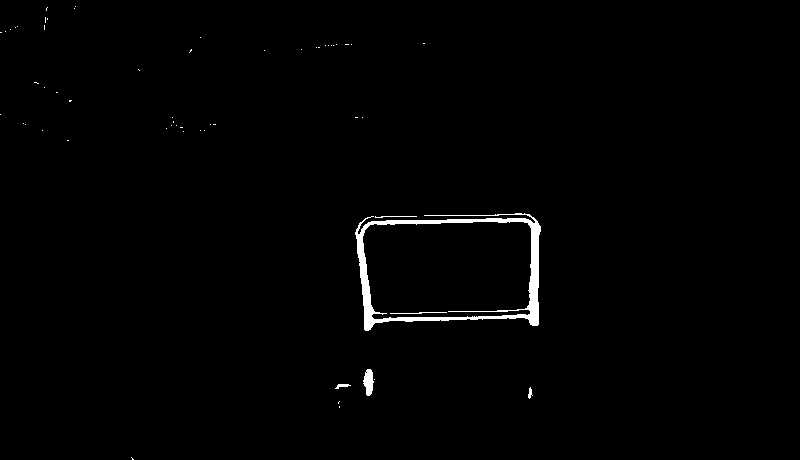
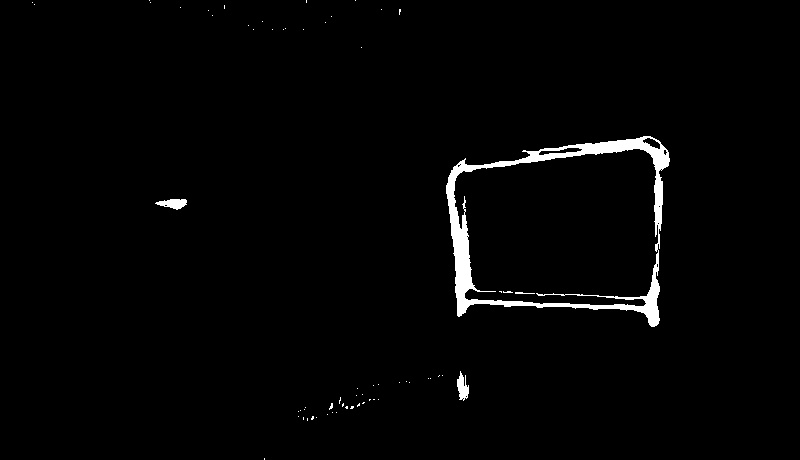
Ros node for image subscribing and initial pipeline

diff --git a/Window_detection/window_detection.py b/Window_detection/window_detection.py
@@ -1,4 +1,7 @@
 #!/usr/bin/env python
+import rospy
+from sensor_msgs.msg import Image
+from cv_bridge import CvBridge, CvBridgeError
 try:
 	sys.path.remove('/opt/ros/kinetic/lib/python2.7/dist-packages/')
 	sys.path.remove('/opt/ros/kinetic/share/opencv3/')
@@ -9,15 +12,36 @@ import cv2
 import numpy as np
 import math
 import copy
+import GMM.test_data
 
+class video_stream:
+	def __init__(self):
+		self.bridge = CvBridge()
+		self.image_sub = rospy.Subscriber("/image_raw", Image, self.img_callback)
+		self.window_detection = Window_detection()
+		weights_path = './training_params/window_weights.npy'
+		params_path = './training_params/gaussian_params.npy'
+		self.n, self.K, self.weights, self.params = loadparamsGMM(weights_path, params_path)
 
+	def img_callback(self, data):
+		try:
+			cv_image = self.bridge.imgmsg_to_cv2(data, "bgr8")
+		except CvBridgeError as e:
+			print(e)
+		
+		if cv_image is not None:
+			processed_img = preprocess_img(cv_image)
 
+			#run GMM inference to generate mask
+			mask = test_combined(processed_img,self.K,self.n,self.weights, self.params,(0,255,0))
+			self.window_detection.detection_hough_lines(mask)
+	
 class Window_detection:
 	def __init__(self):
 		# self.data_path = '/home/prgumd/Desktop/pink_window.mp4'
 		self.data_path = '../../drone_course_data/window_detection/pink_window.mp4'
 		self.image_path = './GMM/test_image.jpg'
-		self.original_image = '../drone_course_data/Window_detection/GMM/data/GMM_1/frame0010.jpg'
+		self.original_image = '../drone_course_data/Window_detection/GMM/data/GMM_1/frame0200.jpg'
 
 	def rotate_img_90_deg(self,img):
 		h,w = img.shape[:2]
@@ -144,12 +168,38 @@ class Window_detection:
 				cv2.destroyAllWindows()
 			count += 1
 
-	def Detection_using_threshold_image(self):
-		img = cv2.imread(self.original_image)
-		mask = cv2.imread(self.image_path,0)
+	def detection_hough_lines(self, mask):
+		# img = cv2.imread(self.original_image)
+		# mask = cv2.imread(self.image_path,0)
 		mask = cv2.inRange(mask, 200, 255)
 		masked_img = cv2.bitwise_and(img, img, mask = mask)
-		# cv2.imshow("test",masked_img)
+
+		gray = cv2.cvtColor(masked_img,cv2.COLOR_BGR2GRAY)
+		gray = cv2.medianBlur(gray,5)
+		edges = gray
+		kernel = cv2.getStructuringElement(cv2.MORPH_RECT,(31,31))
+		# closing to fill unwanted small gaps
+		closing = cv2.morphologyEx(edges, cv2.MORPH_CLOSE, kernel)
+		
+		closing = cv2.GaussianBlur(closing, (7,7), cv2.BORDER_DEFAULT)
+		edges = cv2.Canny(closing, 50, 150, apertureSize = 3)
+		minLength = 100
+		maxLineGap = 40
+		lines = cv2.HoughLinesP(closing, 1, np.pi/180, 100, minLength, maxLineGap)
+		# print lines.shape
+		# input('as')
+		for x1, y1, x2, y2 in lines[:,0,:]:
+			cv2.line(img, (x1, y1),(x2,y2), (0,255,0), 2)
+		# print ("imgPoints = ",imgPoints)
+		cv2.imshow("image", img)				
+		cv2.waitKey(0)
+
+	def Detection_using_threshold_image(self, mask):
+		# img = cv2.imread(self.original_image)
+		# mask = cv2.imread(self.image_path,0)
+		mask = cv2.inRange(mask, 200, 255)
+		masked_img = cv2.bitwise_and(img, img, mask = mask)
+		print(masked_img.shape)
 		corner_pts = self.get_all_corners(masked_img, img)
 		imgPoints = self.get_outer_window_corner_points(corner_pts, img)
 		print ("imgPoints = ",imgPoints)
@@ -161,8 +211,13 @@ class Window_detection:
 
 
 def main():
-	ob = Window_detection()
-	ob.Detection_using_threshold_image()
+	count = 0
+	ob = video_stream()
+
+	rospy.init_node('image_reader', anonymus=True)
+	while(count != 1000 || not rospy.is_shutdown()):
+		rospy.spin()
+		count += 1;
 
 if __name__ == '__main__':
 	main()

diff --git a/Window_detection/GMM/test_data.py b/Window_detection/GMM/test_data.py
@@ -5,8 +5,6 @@ import sys
 import matplotlib.pyplot as plt
 import math
 import os
-# import imutils
-# from imutils import contours
 
 def tune_HSV(img):
 	img = cv2.cvtColor(img, cv2.COLOR_BGR2HSV)
@@ -108,50 +106,42 @@ def test_combined(test_image,K,n_factor,weights, parameters,color):
 	test = np.uint8(probabilities*255/np.max(probabilities))
 	
 	probabilities[probabilities>np.mean(probabilities)/n_factor] = 255
-	plt.imshow(probabilities)
-	plt.show()
-	
-	# output = np.zeros_like(frame)
-	# # print output.shape
-	
-	# output[:,:,0] = probabilities
-	# output[:,:,1] = probabilities
-	# output[:,:,2] = probabilities
-	
-	# blur = cv2.GaussianBlur(output,(3,3),5)
-	# print blur
-	# cv2.imshow("out",output)
-	# input('a')
-	# edged = cv2.Canny(blur,50,255 )
-	
-	# cnts,h = cv2.findContours(edged, cv2.RETR_TREE, cv2.CHAIN_APPROX_SIMPLE)
-	
-	# (cnts_sorted, boundingBoxes) = contours.sort_contours(cnts, method="left-to-right")
-	
-	# hull = cv2.convexHull(cnts_sorted[0])
-	# (x,y),radius = cv2.minEnclosingCircle(hull)
-	
-	# if radius > 7:
-	# 	cv2.circle(test_image,(int(x),int(y)-1),int(radius+1),(color),4)
+	# plt.imshow(probabilities)
+	# plt.show()
+
 	return probabilities	
 			
-	
-if __name__ == "__main__":
-	K = 2
-	n = 0.1
-	test_image_path  = '/home/abhinav/Gits/drone-course/drone_course_data/Window_detection/GMM/data/GMM_1/frame0010.jpg'
-	test_image = cv2.imread(test_image_path)
+def preprocess_img(test_image):
 	convert = tune_RGB(test_image)
 	convert = tune_HSV(convert)
 	convert = adjust_gamma(convert, gamma = 1.0)
 	convert = cv2.fastNlMeansDenoisingColored(convert, None, 3, 3, 7, 15)
 	test_image = cv2.cvtColor(convert, cv2.COLOR_BGR2RGB)
+	return test_image
 
+def loadparamsGMM(weights_path, params_path):
 	weights = np.load('./training_params/window_weights.npy', allow_pickle=True)
 	parameters = np.load('./training_params/gaussian_params.npy', allow_pickle=True)
-	print test_image.shape
-	save_img = test_combined(test_image, K,n,weights, parameters,(0,165,255))
-	cv2.imwrite("test_image.jpg", save_img)
+	K = 2
+	n = 0.1
+	return n, K, weights, parameters
+
+# if __name__ == "__main__":
+# 	weights = np.load('./training_params/window_weights.npy', allow_pickle=True)
+# 	parameters = np.load('./training_params/gaussian_params.npy', allow_pickle=True)
+# 	K = 2
+# 	n = 0.1
+
+# 	test_image_path  = '/home/abhinav/Gits/drone-course/drone_course_data/Window_detection/GMM/data/GMM_1/frame0200.jpg'
+# 	test_image = cv2.imread(test_image_path)
+# 	test_image = preprocess_img(test_image)
+
+# 	save_img = test_combined(test_image, K,n,weights, parameters,(0,165,255))
+# 	print(save_img.shape)
+# 	cv2.imshow("test", save_img)
+# 	cv2.waitKey(0)
+	# cv2.imwrite("test_image.jpg", save_img)
+
 # if __name__ == "__main__":
 # 	name = "detectbuoy.avi"
 # 	video = []
